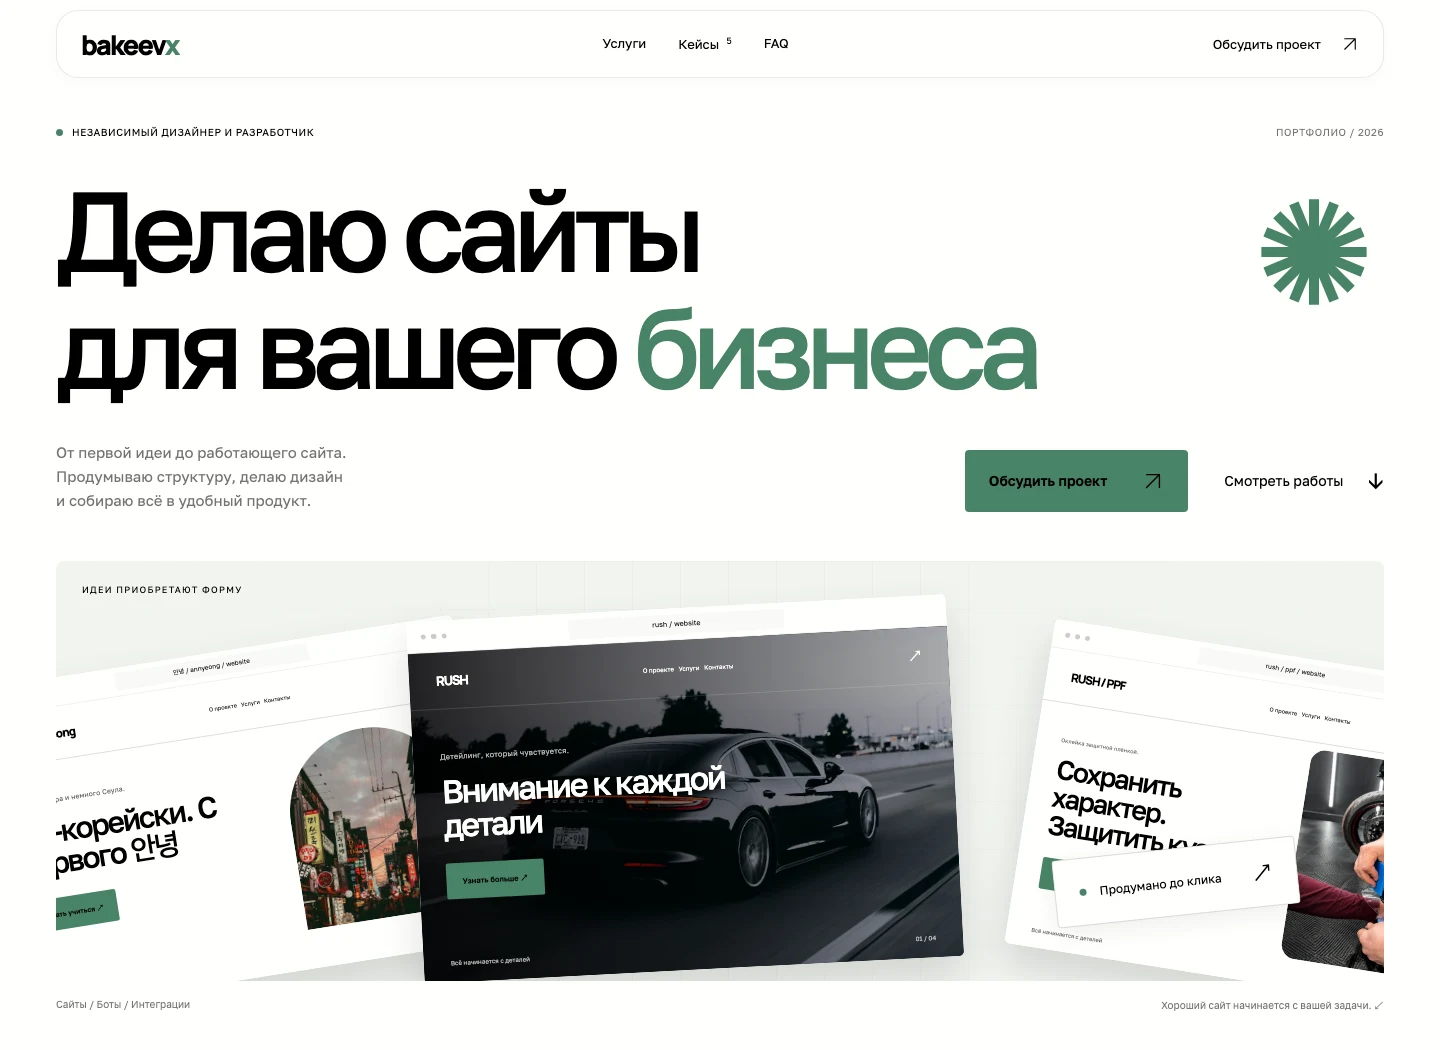
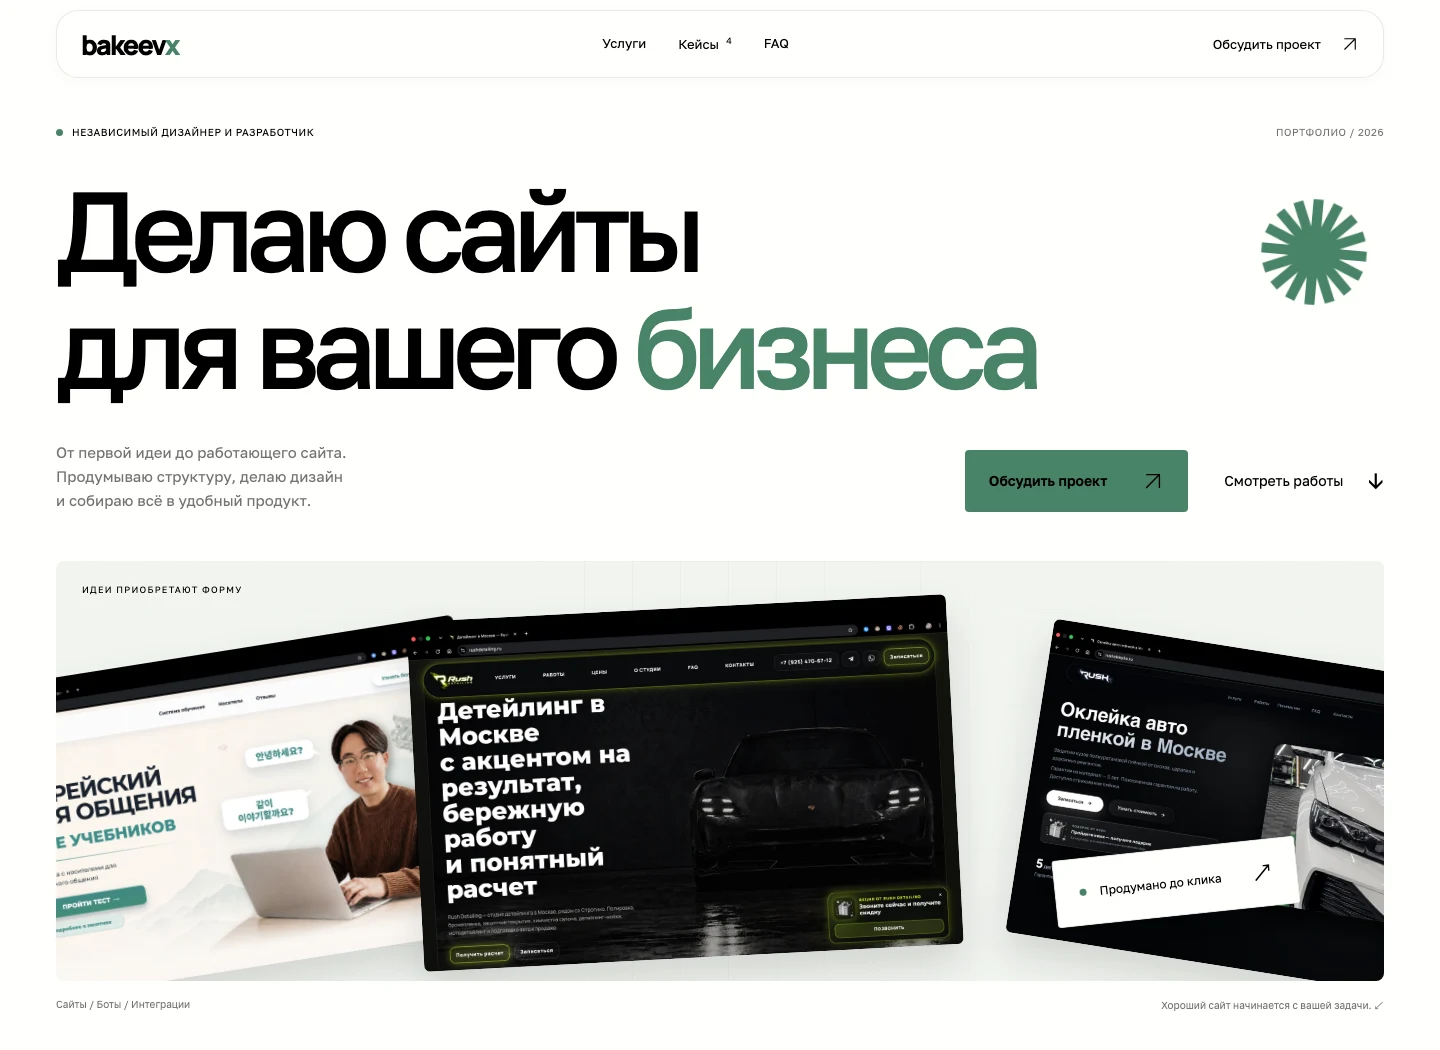
Refresh portfolio case previews

Changed region(s): [[0.0312, 0.5486, 0.9688, 0.9448], [0.875, 0.1829, 0.9688, 0.3048]]

diff --git a/src/data/content.ts b/src/data/content.ts
@@ -14,7 +14,7 @@ export const projects: Project[] = [
   {slug:'ai-workshop',number:'04',name:'AI Workshop',category:'Образовательный продукт',summary:'Первый коммерческий проект. Лендинг для AI-воркшопа.',role:'Дизайн / Разработка',mockBrand:'AI / WORKSHOP',mockTitle:'Идея твоя. Возможности AI',mockSubtitle:'Практический воркшоп для авторов.',task:'Инфлюенсеру нужна была страница для запуска AI-воркшопа. Важно было объяснить, что участники попробуют на практике, кому подойдёт обучение и как записаться.',solution:'Этот проект стал моей первой полноценной работой с реальным заказчиком. Я собрал структуру лендинга, подготовил технологичную визуальную подачу и адаптировал страницу для телефона.',steps:['Собрал программу и предложение в одну историю.','Выделил практические задачи участников.','Разработал страницу и мобильную версию.','Сделал понятный переход к записи на воркшоп.'],metrics:[{value:'1',label:'лендинг'},{value:'7',label:'разделов'},{value:'3',label:'размера экрана'},{value:'1',label:'сценарий записи'}],demo:true,outcome:'Получилась цельная страница образовательного продукта с программой и переходом к записи.',gallery:[{title:'Технологичный первый экран',caption:'Крупная типографика и графика вокруг идеи воркшопа.',variant:'desktop'},{title:'Программа в кармане',caption:'Читаемая программа и запись с телефона.',variant:'mobile'},{title:'Из интереса в практику',caption:'Краткая подача программы и ожидаемого опыта.',variant:'detail'}]},
   {
     slug:'bakeevx', number:'05', name:'Личное портфолио', category:'Дизайн и разработка',
-    summary:'Этот самый сайт. Пять работ и прямой разговор о том, что я делаю.',
+    summary:'Этот самый сайт. Четыре работы и прямой разговор о том, что я делаю.',
     role:'Структура / Дизайн / Разработка', mockBrand:'bakeevx',
     mockTitle:'Делаю сайты для вашего бизнеса', mockSubtitle:'Личное портфолио',
     coverImage:'/images/portfolio-desktop.webp', imageAlt:'Главная страница портфолио bakeevx',
@@ -22,12 +22,12 @@ export const projects: Project[] = [
     task:'Мне нужен был сайт, который можно отправить потенциальному клиенту. Хотелось показать работы, объяснить свои услуги и дать возможность сразу написать мне.',
     solution:'Собрал светлое портфолио с крупной типографикой и зелёным акцентом. Для каждой работы сделал отдельную страницу с задачей, решением и визуалами. Добавил закреплённую стеклянную навигацию и мягкие анимации, а контактные кнопки связал с Telegram.',
     steps:['Выстроил главную вокруг услуг и проектов.','Разработал общий шаблон кейсов с отдельными страницами.','Адаптировал интерфейс для телефона и компьютера.','Проверил навигацию, доступность и опубликовал сайт.'],
-    metrics:[{value:'7',label:'основных страниц'},{value:'5',label:'проектов в каталоге'},{value:'11',label:'направлений работы'},{value:'1',label:'контакт для связи'}],
+    metrics:[{value:'7',label:'основных страниц'},{value:'4',label:'проекта в каталоге'},{value:'11',label:'направлений работы'},{value:'1',label:'контакт для связи'}],
     outcome:'Портфолио работает по публичной ссылке. Здесь можно посмотреть проекты, разобраться в услугах и написать мне в Telegram.',
     gallery:[
       {title:'Знакомство с первого экрана',caption:'Типографика, превью работ и переход к обсуждению проекта.',variant:'desktop',image:'/images/portfolio-desktop.webp',imageAlt:'Главная страница bakeevx на компьютере'},
       {title:'Портфолио с телефона',caption:'Адаптивный первый экран и компактная навигация.',variant:'mobile',image:'/images/portfolio-mobile.webp',imageAlt:'Главная страница bakeevx на телефоне'},
-      {title:'Несколько точек отсчёта',caption:'Цифры появляются при прокрутке. Под ними стоят проверяемые факты о сайте.',variant:'detail',image:'/images/portfolio-numbers.webp',imageAlt:'Блок с пятью проектами, одиннадцатью услугами и одним контактным лицом'}
+      {title:'Несколько точек отсчёта',caption:'Цифры появляются при прокрутке. Под ними стоят проверяемые факты о сайте.',variant:'detail',image:'/images/portfolio-numbers.webp',imageAlt:'Блок с четырьмя проектами, одиннадцатью услугами и одним контактным лицом'}
     ]
   }
 ];
